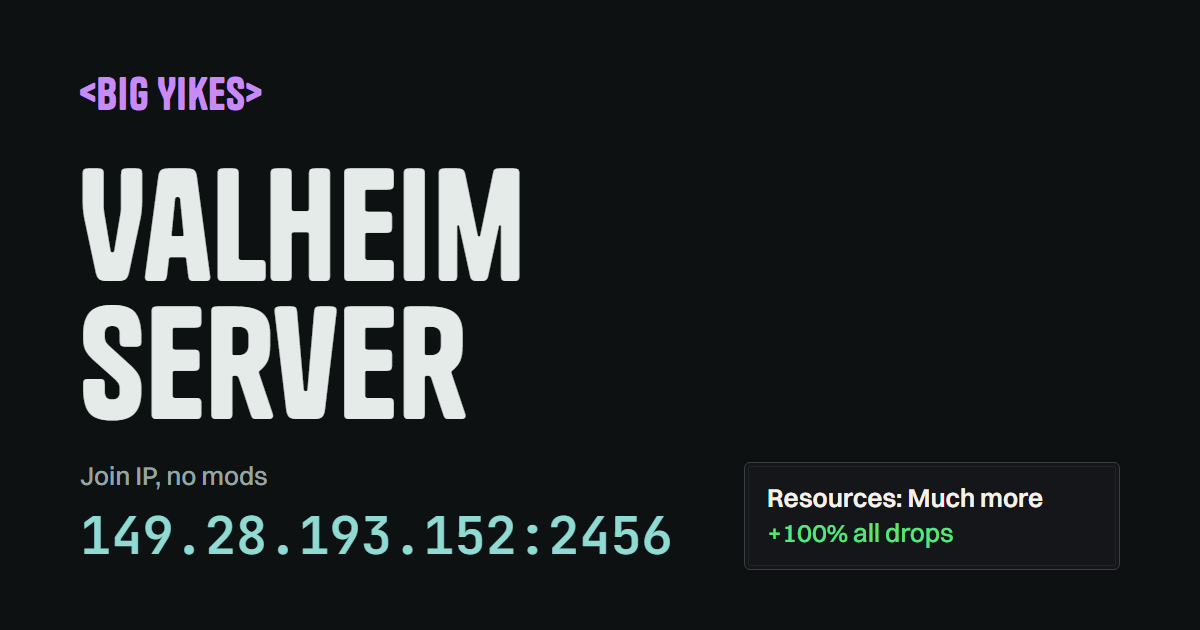
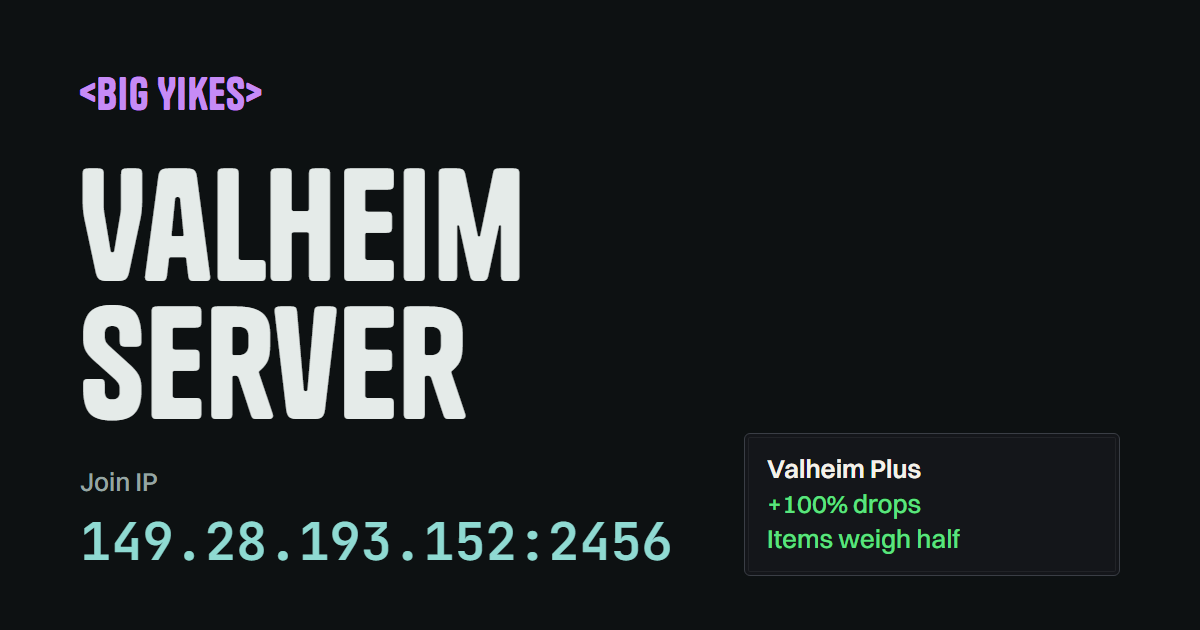
Valheim Plus is back: one-line installer and updated guide
- valheim/install.ps1: finds Valheim via Steam, installs BepInEx 5.4.2351 +
  Valheim Plus 10.2.0 from Thunderstore with SHA-256 checks (PowerShell 5.1+)
- valheim/uninstall.ps1: switches mods off without deleting them
- Guide: install command card, four steps, V+ settings tooltip, new FAQ
- Preview card updated

Changed region(s): [[0.0617, 0.8143, 0.555, 0.9048], [0.6167, 0.7238, 0.8942, 0.8746], [0.0617, 0.7238, 0.2158, 0.7841]]

diff --git a/valheim/index.html b/valheim/index.html
@@ -5,14 +5,14 @@
 <meta name="viewport" content="width=device-width, initial-scale=1, viewport-fit=cover">
 <meta name="robots" content="noindex, nofollow">
 <title>Big Yikes Valheim</title>
-<meta name="description" content="Join the Big Yikes Valheim server. No mods: copy the address, Join IP, enter the password from Discord.">
+<meta name="description" content="Join the Big Yikes Valheim server: install Valheim Plus with one command, Join IP, enter the password from Discord.">
 <meta name="color-scheme" content="light dark">
 <meta name="theme-color" content="#EEF1EE" media="(prefers-color-scheme: light)">
 <meta name="theme-color" content="#0D1112" media="(prefers-color-scheme: dark)">
 <meta property="og:type" content="website">
 <meta property="og:site_name" content="Big Yikes">
 <meta property="og:title" content="Join Big Yikes on Valheim">
-<meta property="og:description" content="No mods, nothing to download. Copy the address, Join IP, enter the password from Discord. Double drops, always on.">
+<meta property="og:description" content="Valheim Plus server: 2x drops, half weight, bigger stacks, always on. One command installs the mods, then Join IP.">
 <meta property="og:url" content="https://yikesgaming.com/valheim/">
 <meta property="og:image" content="https://yikesgaming.com/assets/img/og-valheim.png">
 <meta property="og:image:width" content="1200">
@@ -50,13 +50,22 @@
 
   <main>
     <h1 data-intro>Join Big Yikes on Valheim</h1>
-    <p class="lede" data-intro>No mods and nothing to download. If you have Valheim on Steam, you can be in the world in about a minute.</p>
+    <p class="lede" data-intro>We run Valheim Plus. One command installs it, then you join from Steam like any other server. About two minutes, start to finish.</p>
 
     <section class="card" aria-label="Server details" data-intro>
       <div class="status">
         <span class="online"><span class="dot" aria-hidden="true"></span>Online around the clock</span>
         <span><svg class="icon" aria-hidden="true" viewBox="0 0 24 24"><path fill="none" stroke="currentColor" stroke-linecap="round" stroke-linejoin="round" stroke-width="2" d="M3 5a1 1 0 0 1 1-1h16a1 1 0 0 1 1 1v10a1 1 0 0 1-1 1H4a1 1 0 0 1-1-1zm4 15h10m-8-4v4m6-4v4"/></svg>Steam on PC</span>
-        <span><svg class="icon" aria-hidden="true" viewBox="0 0 24 24"><path fill="none" stroke="currentColor" stroke-linecap="round" stroke-linejoin="round" stroke-width="2" d="M5 7a4 4 0 1 0 8 0a4 4 0 1 0-8 0M3 21v-2a4 4 0 0 1 4-4h4a4 4 0 0 1 4 4v2m1-17.87a4 4 0 0 1 0 7.75M21 21v-2a4 4 0 0 0-3-3.85"/></svg>Up to 10 players</span>
+        <span><svg class="icon" aria-hidden="true" viewBox="0 0 24 24"><path fill="none" stroke="currentColor" stroke-linecap="round" stroke-linejoin="round" stroke-width="2" d="M5 7a4 4 0 1 0 8 0a4 4 0 1 0-8 0M3 21v-2a4 4 0 0 1 4-4h4a4 4 0 0 1 4 4v2m1-17.87a4 4 0 0 1 0 7.75M21 21v-2a4 4 0 0 0-3-3.85"/></svg>Up to 20 players</span>
+      </div>
+      <div class="field">
+        <div class="label" id="cmd-label">Install command</div>
+        <div class="value cmd" aria-labelledby="cmd-label">irm https://yikesgaming.com/valheim/install.ps1 | iex</div>
+        <button class="btn" type="button" data-copy="irm https://yikesgaming.com/valheim/install.ps1 | iex" data-copy-name="Install command">
+          <svg class="icon" aria-hidden="true" viewBox="0 0 24 24"><g fill="none" stroke="currentColor" stroke-linecap="round" stroke-linejoin="round" stroke-width="2"><path d="M7 9.667A2.667 2.667 0 0 1 9.667 7h8.666A2.667 2.667 0 0 1 21 9.667v8.666A2.667 2.667 0 0 1 18.333 21H9.667A2.667 2.667 0 0 1 7 18.333z"/><path d="M4.012 16.737A2 2 0 0 1 3 15V5c0-1.1.9-2 2-2h10c.75 0 1.158.385 1.5 1"/></g></svg>
+          Copy
+          <template><svg class="icon" aria-hidden="true" viewBox="0 0 24 24"><path fill="none" stroke="currentColor" stroke-linecap="round" stroke-linejoin="round" stroke-width="2" d="m5 12l5 5L20 7"/></svg> Copied</template>
+        </button>
       </div>
       <div class="field">
         <div class="label" id="addr-label">Server address</div>
@@ -69,12 +78,17 @@
       </div>
       <div class="field">
         <div class="label" id="pw-label">Password</div>
-        <div class="value plain" aria-labelledby="pw-label"><svg class="icon" aria-hidden="true" viewBox="0 0 24 24"><g fill="none" stroke="currentColor" stroke-linecap="round" stroke-linejoin="round" stroke-width="2"><path d="M8 12a1 1 0 1 0 2 0a1 1 0 0 0-2 0m6 0a1 1 0 1 0 2 0a1 1 0 0 0-2 0"/><path d="M15.5 17c0 1 1.5 3 2 3c1.5 0 2.833-1.667 3.5-3c.667-1.667.5-5.833-1.5-11.5c-1.457-1.015-3-1.34-4.5-1.5l-.972 1.923a11.9 11.9 0 0 0-4.053 0L9 4c-1.5.16-3.043.485-4.5 1.5c-2 5.667-2.167 9.833-1.5 11.5c.667 1.333 2 3 3.5 3c.5 0 2-2 2-3"/><path d="M7 16.5c3.5 1 6.5 1 10 0"/></g></svg>Pinned in the guild Discord</div>
+        <div class="value plain" aria-labelledby="pw-label"><svg class="icon" aria-hidden="true" viewBox="0 0 24 24"><g fill="none" stroke="currentColor" stroke-linecap="round" stroke-linejoin="round" stroke-width="2"><path d="M8 12a1 1 0 1 0 2 0a1 1 0 0 0-2 0m6 0a1 1 0 1 0 2 0a1 1 0 0 0-2 0"/><path d="M15.5 17c0 1 1.5 3 2 3c1.5 0 2.833-1.667 3.5-3c.667-1.667.5-5.833-1.5-11.5c-1.457-1.015-3-1.34-4.5-1.5l-.972 1.923a11.9 11.9 0 0 0-4.053 0L9 4c-1.5.16-3.043.485-4.5 1.5c-2 5.667-2.167 9.833-1.5 11.5c.667 1.333 2 3 3.5 3c.5 0 2-2 2-3"/><path d="M7 16.5c3.5 1 6.5 1 10 0"/></g></svg>Pinned in #other-games on Discord</div>
       </div>
     </section>
 
-    <h2>Three steps</h2>
+    <h2>Four steps</h2>
     <ol class="steps">
+      <li><div>
+        <h3>Install the mods</h3>
+        <div class="path"><span class="key">Windows key</span><span class="then" aria-hidden="true">then</span><span class="key">powershell</span><span class="then" aria-hidden="true">then</span><span class="key">Enter</span></div>
+        <p class="muted">Close Valheim first. In the PowerShell window, paste the install command and press Enter. It finds your Valheim, downloads BepInEx and Valheim Plus from Thunderstore, checks both files, and installs them. <a href="https://github.com/alexandermayes/yikesgaming-site/blob/main/valheim/install.ps1">Read the installer</a> if you want to see exactly what it does.</p>
+      </div></li>
       <li><div>
         <h3>Open Valheim and pick a character</h3>
         <div class="path"><span class="key">Start Game</span><span class="then" aria-hidden="true">then</span><span class="key">Start</span></div>
@@ -87,53 +101,61 @@
       </div></li>
       <li><div>
         <h3>Enter the password</h3>
-        <p class="muted">Copy it from the pinned message in the guild Discord. Next time, Big Yikes is waiting in the <strong>Recent</strong> tab, so it's one click plus the password.</p>
+        <p class="muted">It's pinned in #other-games on Discord. Next time, Big Yikes is waiting in the <strong>Recent</strong> tab, so it's one click plus the password.</p>
       </div></li>
     </ol>
 
     <h2>What's different</h2>
-    <p>It's normal Valheim with one world setting turned up.</p>
-    <div class="tooltip" role="group" aria-label="World modifier: Resources, Much more" data-reveal>
-      <div class="t-title">Resources: Much more</div>
-      <div class="t-sub">World modifier</div>
+    <p>The server sends its Valheim Plus settings when you join, so there's nothing to configure.</p>
+    <div class="tooltip" role="group" aria-label="Valheim Plus server settings" data-reveal>
+      <div class="t-title">Valheim Plus</div>
+      <div class="t-sub">Server settings, synced when you join</div>
       <ul>
-        <li>+100% wood and stone</li>
-        <li>+100% ore and metal</li>
+        <li>+100% wood, stone and ore</li>
         <li>+100% berries, mushrooms and flint</li>
-        <li>+100% monster drops</li>
+        <li>+100% monster loot, +50% drop chance</li>
+        <li>Stacks hold twice as much</li>
+        <li>Items weigh half, carry up to 400</li>
+        <li>Map exploration shared with everyone</li>
+        <li>Smelters, kilns and fermenters about 2x faster</li>
+        <li>Workbench build radius 30 m</li>
       </ul>
-      <div class="t-flavor">Everything else plays like normal Valheim.</div>
-    </div>
-
-    <div class="note" role="note">
-      <strong>Set up the mods earlier?</strong> You don't need them anymore. Launch Valheim straight from Steam, not from r2modman or Thunderstore. If you copied the mod files in by hand, rename <code>winhttp.dll</code> in your Valheim folder to <code>winhttp.dll.off</code>.
+      <div class="t-flavor">Bosses, biomes and progression play like normal Valheim.</div>
     </div>
 
     <h2>Trouble?</h2>
     <details>
+      <summary>"Windows blocked writing to the Valheim folder"<svg class="icon" aria-hidden="true" viewBox="0 0 24 24"><path fill="none" stroke="currentColor" stroke-linecap="round" stroke-linejoin="round" stroke-width="2" d="m6 9l6 6l6-6"/></svg></summary>
+      <div><p>Some PCs protect the Steam folder. Press the Windows key, type powershell, right-click it, choose <strong>Run as administrator</strong>, and paste the install command again.</p></div>
+    </details>
+    <details>
       <summary>It disconnects right after connecting<svg class="icon" aria-hidden="true" viewBox="0 0 24 24"><path fill="none" stroke="currentColor" stroke-linecap="round" stroke-linejoin="round" stroke-width="2" d="m6 9l6 6l6-6"/></svg></summary>
-      <div><p>Your game is still loading Valheim Plus from the old modded server, and it drops you because this server doesn't run it. Launch Valheim from Steam instead of the mod manager. If you installed the mods by hand, rename <code>winhttp.dll</code> in your Valheim folder to <code>winhttp.dll.off</code>.</p></div>
+      <div><p>Your Valheim Plus is missing or a different version from the server's. Close Valheim and run the install command again. It always installs the exact versions the server uses.</p></div>
     </details>
     <details>
       <summary>"Incompatible version"<svg class="icon" aria-hidden="true" viewBox="0 0 24 24"><path fill="none" stroke="currentColor" stroke-linecap="round" stroke-linejoin="round" stroke-width="2" d="m6 9l6 6l6-6"/></svg></summary>
-      <div><p>Steam hasn't finished updating your Valheim. Close the game, let the update finish in your Steam Library, and try again.</p></div>
-    </details>
-    <details>
-      <summary>It times out or can't connect<svg class="icon" aria-hidden="true" viewBox="0 0 24 24"><path fill="none" stroke="currentColor" stroke-linecap="round" stroke-linejoin="round" stroke-width="2" d="m6 9l6 6l6-6"/></svg></summary>
-      <div><p>Make sure the address ends in <span class="mono">:2456</span>. Use the Copy button so nothing gets mistyped. If it still fails, post in Discord so someone can check the server.</p></div>
+      <div><p>Steam hasn't finished updating your Valheim, or Valheim just got a patch. After a patch, Valheim Plus can take a few days to catch up. The host will post in Discord when the server and installer are updated.</p></div>
     </details>
     <details>
       <summary>"Invalid password"<svg class="icon" aria-hidden="true" viewBox="0 0 24 24"><path fill="none" stroke="currentColor" stroke-linecap="round" stroke-linejoin="round" stroke-width="2" d="m6 9l6 6l6-6"/></svg></summary>
-      <div><p>Passwords are case-sensitive. Copy it straight from the pinned message in the guild Discord.</p></div>
+      <div><p>Passwords are case-sensitive. Copy it straight from the pinned message in #other-games.</p></div>
+    </details>
+    <details>
+      <summary>I'd rather use a mod manager<svg class="icon" aria-hidden="true" viewBox="0 0 24 24"><path fill="none" stroke="currentColor" stroke-linecap="round" stroke-linejoin="round" stroke-width="2" d="m6 9l6 6l6-6"/></svg></summary>
+      <div><p>In r2modman or Thunderstore Mod Manager, pick Valheim, then <strong>Profiles</strong>, <strong>Import / Update</strong>, <strong>From code</strong>, and paste <span class="mono">01a10329-41f7-3532-fb7c-5304e0e693ee</span>. Launch with <strong>Start modded</strong> each time you play here.</p></div>
+    </details>
+    <details>
+      <summary>I want to play unmodded or on other servers<svg class="icon" aria-hidden="true" viewBox="0 0 24 24"><path fill="none" stroke="currentColor" stroke-linecap="round" stroke-linejoin="round" stroke-width="2" d="m6 9l6 6l6-6"/></svg></summary>
+      <div><p>Run <span class="mono">irm https://yikesgaming.com/valheim/uninstall.ps1 | iex</span> in PowerShell. It switches the mods off without deleting anything. Run the install command again to come back.</p></div>
     </details>
     <details>
       <summary>Can I play on Xbox or Game Pass?<svg class="icon" aria-hidden="true" viewBox="0 0 24 24"><path fill="none" stroke="currentColor" stroke-linecap="round" stroke-linejoin="round" stroke-width="2" d="m6 9l6 6l6-6"/></svg></summary>
-      <div><p>Not right now. This server only takes the Steam PC version.</p></div>
+      <div><p>No. Mods only work on the Steam PC version, and this server needs Valheim Plus.</p></div>
     </details>
   </main>
 
   <footer class="footer">
-    <p>Vanilla Valheim with the Resources world setting on Much more. Hosted in San Jose, California, and running around the clock.</p>
+    <p>Valheim Plus 10.2.0 on BepInEx 5.4.2351, for Valheim 1.0.16. Hosted in San Jose, California, and running around the clock.</p>
   </footer>
 </div>
 <div id="live" class="sr-only" role="status" aria-live="polite"></div>

diff --git a/tools/og-valheim.html b/tools/og-valheim.html
@@ -36,8 +36,8 @@
   <div class="mark">&lt;Big Yikes&gt;</div>
   <h1>Valheim<br>server</h1>
   <div class="bottom">
-    <div class="addr"><small>Join IP, no mods</small>149.28.193.152:2456</div>
-    <div class="tip"><b>Resources: Much more</b><span>+100% all drops</span></div>
+    <div class="addr"><small>Join IP</small>149.28.193.152:2456</div>
+    <div class="tip"><b>Valheim Plus</b><span>+100% drops<br>Items weigh half</span></div>
   </div>
 </body>
 </html>

diff --git a/assets/css/brand.css b/assets/css/brand.css
@@ -195,6 +195,11 @@ code { background: var(--accent-soft); color: var(--accent-text); padding: .1em 
   min-width: 0;
   user-select: all;
 }
+.field .value.cmd {
+  font-size: clamp(.82rem, 3.3vw, 1rem);
+  line-height: 1.5;
+  overflow-wrap: anywhere;
+}
 .field .value.plain {
   font-family: var(--body);
   font-size: var(--fs-lg);
